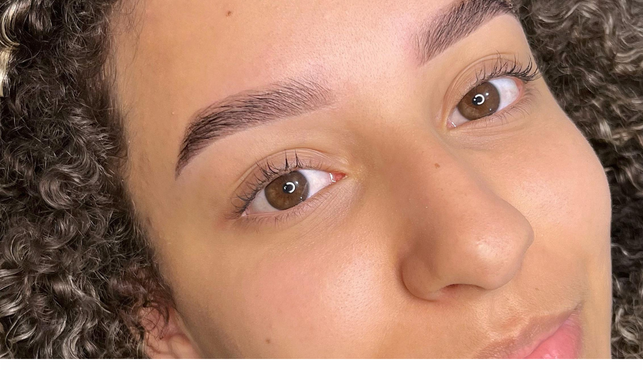
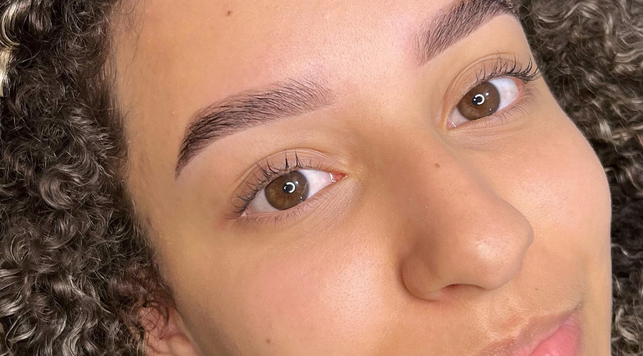
correções img e valor

diff --git a/procedimentos.html b/procedimentos.html
@@ -299,7 +299,7 @@
                 <p class="service-desc">Design Beauty Personalizado + Lash Lifting.</p>
                 <span class="service-meta">Retorno em 45 dias</span>
               </div>
-              <div class="service-price">R$ 170,00</div>
+              <div class="service-price">R$ 160,00</div>
             </div>
             <button class="add-to-cart-btn" data-id="combo-soft-look" data-name="Combo Soft Look (Design Beauty Personalizado + Lash Lifting)" data-price="170.00" data-type="procedimento">
               <span>Adicionar ao carrinho</span>
